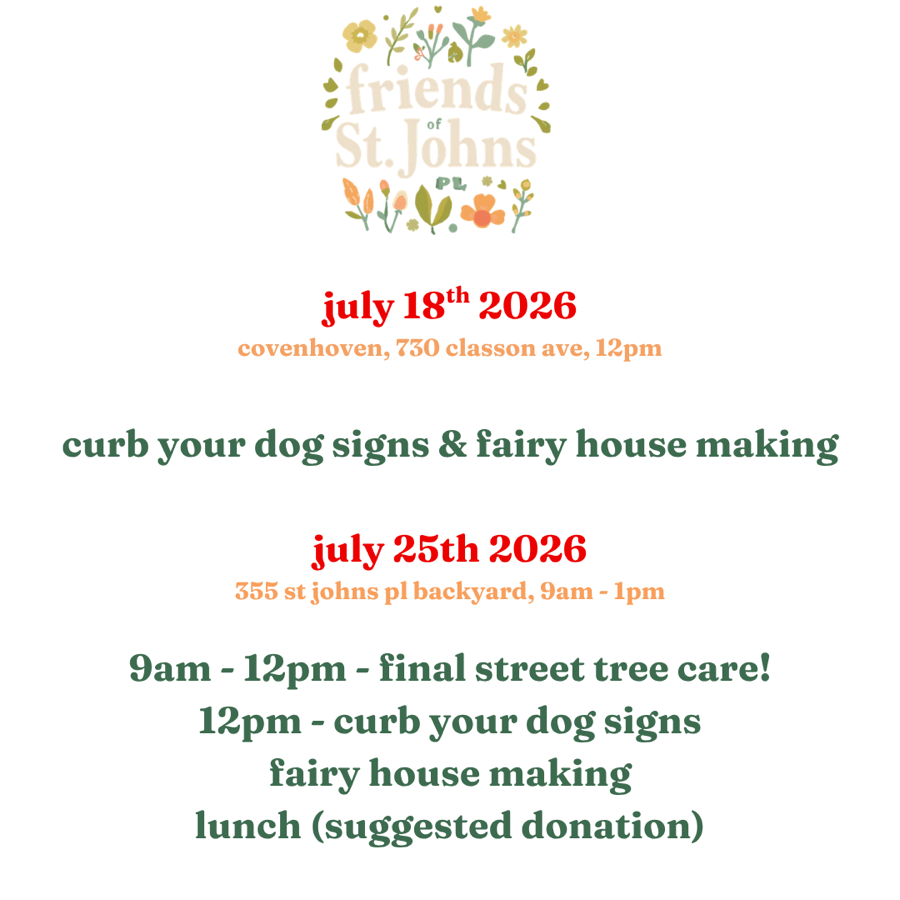
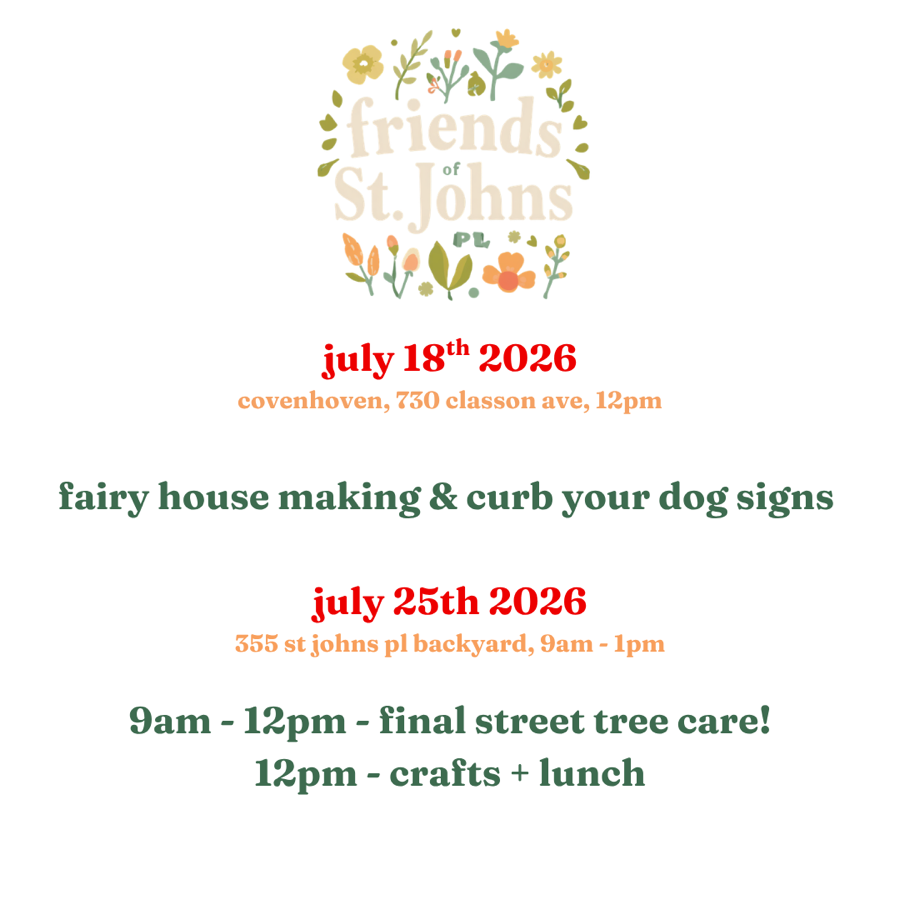
Latest flyer version (cache-busted)

Changed region(s): [[0.0622, 0.0, 0.9333, 0.9644]]

diff --git a/index.html b/index.html
@@ -171,7 +171,7 @@
     <h2 style="font-family:Georgia,serif;font-weight:400;margin:0 0 4px">July 18th &amp; 25th 🧚</h2>
     <p style="margin:0 0 6px;font-size:13.5px;color:#c0392b;font-weight:600;font-family:-apple-system,Arial,sans-serif">⚠️ Rescheduled due to the air quality index — outdoor tree care moves to July 25, and the crafts head indoors on the 18th.</p>
     <p class="hint" style="margin:0 0 10px"><b>Sat July 18:</b> 12pm — curb-your-dog signs &amp; fairy house making — Covenhoven, 730 Classon Ave · <b>Sat July 25:</b> 9am–1pm at 355 St Johns Pl backyard — tree care 9am–12pm, then signs, fairy houses &amp; lunch (suggested donation) at 12pm</p>
-    <img class="flyer" src="event-flyer-0718-0725.png" alt="Event flyer: July 18th at Covenhoven (730 Classon Ave), 12pm — curb-your-dog signs and fairy house making; July 25th at 355 St Johns Pl backyard, 9am–1pm — 9am–12pm final street tree care, 12pm signs, fairy houses and lunch (suggested donation)">
+    <img class="flyer" src="event-flyer-0718-0725.png?v=2" alt="Event flyer: July 18th at Covenhoven (730 Classon Ave), 12pm — curb-your-dog signs and fairy house making; July 25th at 355 St Johns Pl backyard, 9am–1pm — 9am–12pm final street tree care, 12pm signs, fairy houses and lunch (suggested donation)">
     <div class="evform">
       <label>Your name *</label><input type="text" id="evName" autocomplete="name">
       <label>Email</label><input type="text" id="evEmail" autocomplete="email" placeholder="[email redacted]">